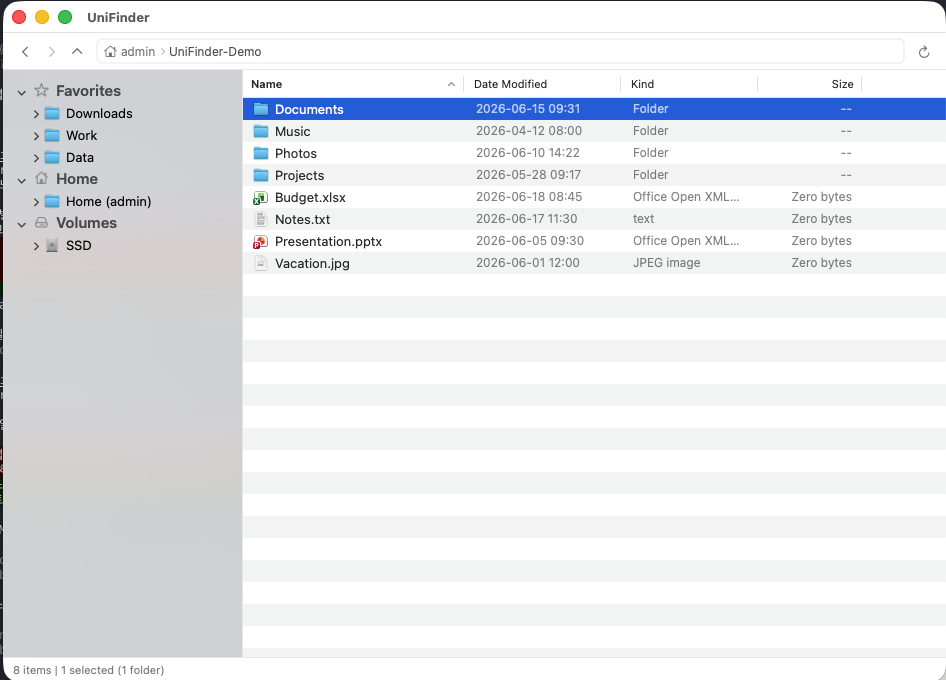
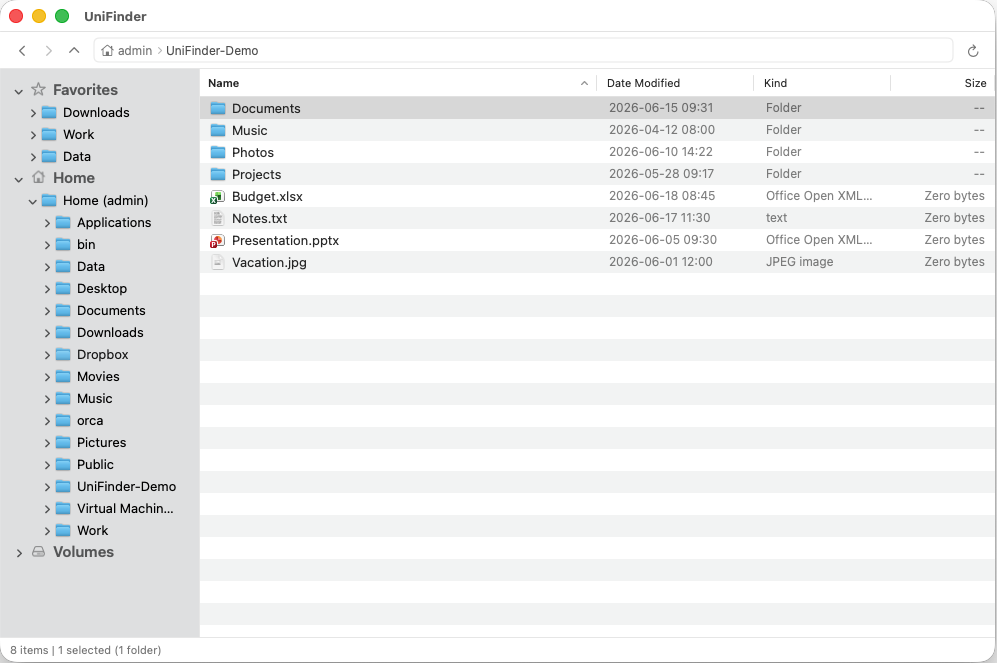
[Fix] 스크린샷을 네이티브 창 캡처로 교체
기존 스크린샷은 가장자리를 잘라내는 과정에서 원본 비율이 살짝
틀어져 있었다. macOS 창 캡처(⌘+Shift+4 → Space → 클릭)로 다시
찍어 원본 비율과 자체 그림자를 그대로 유지하고, 인위적으로 씌웠던
CSS border/box-shadow는 제거했다.

Changed region(s): [[0.0, 0.0, 1.0, 1.0], [0.981, 0.0, 1.0, 0.0302]]

diff --git a/web/index.html b/web/index.html
@@ -53,7 +53,7 @@
     </div>
     <p class="meta-line"><span id="version-tag">v0.5.0</span> · <span data-ko="무료 · macOS 14 이상" data-en="Free · macOS 14 or later">무료 · macOS 14 이상</span></p>
 
-    <img class="screenshot" src="assets/screenshot.png" alt="UniFinder 스크린샷 — 왼쪽 폴더 트리, 오른쪽 파일 목록의 2단 화면 구성" width="946" height="680" loading="lazy">
+    <img class="screenshot" src="assets/screenshot.png" alt="UniFinder 스크린샷 — 왼쪽 폴더 트리, 오른쪽 파일 목록의 2단 화면 구성" width="997" height="663" loading="lazy">
   </section>
 
   <section class="family-app">

diff --git a/web/styles.css b/web/styles.css
@@ -168,10 +168,7 @@ main {
 
 .screenshot {
   width: 100%;
-  max-width: 640px;
-  border-radius: 12px;
-  border: 1px solid #e3e0d8;
-  box-shadow: 0 16px 40px rgba(0,0,0,.12);
+  max-width: 700px;
   margin-bottom: 8px;
 }
 
